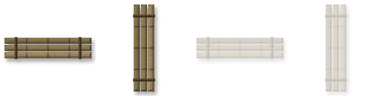
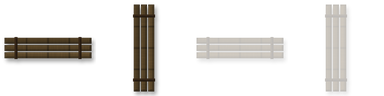
feat(art): bamboo and wood doors stained darker than their walls, wood door boards across

Changed region(s): [[0.0, 0.375, 0.25, 0.625], [0.3438, 0.0312, 0.4062, 0.9688]]

diff --git a/Global/Asset/Structure/make_doors.py b/Global/Asset/Structure/make_doors.py
@@ -46,7 +46,7 @@ def grain(seed):
 
 def leaf_bamboo(half):
     """Three bamboo poles lying along the door, each its own part, lashed at both ends, a node ring every third of a
-    cell; the bamboo wall's weathered colour."""
+    cell; smoked darker than the bamboo wall so the door reads in it."""
     y, x = np.mgrid[0:D, 0:D] + 0.5
     m = rect(C - LENGTH * U / 2, C - half * U, C + LENGTH * U / 2, C + half * U)
     w = 2 * half * U / 3
@@ -58,25 +58,29 @@ def leaf_bamboo(half):
     parts = []
     for k in range(3):
         pole = m * (np.floor(v) == k) * ~seam
-        colour = np.array((150, 130, 88), np.float32) * DARKEN * (round_ * grain(5 + k) * (0.92 + 0.08 * k))[..., None]
+        colour = np.array((92, 72, 42), np.float32) * DARKEN * (round_ * grain(5 + k) * (0.92 + 0.08 * k))[..., None]
         colour[node] *= 0.74
         parts.append((pole, colour))
     for sx in (-0.5, 0.5):
         lash = rect(C + sx * U - 1.6 * SS, C - half * U, C + sx * U + 1.6 * SS, C + half * U)
-        parts.append((lash, np.zeros((D, D, 3), np.float32) + np.array((96, 74, 48), np.float32) * DARKEN))
+        parts.append((lash, np.zeros((D, D, 3), np.float32) + np.array((58, 42, 26), np.float32) * DARKEN))
     return parts
 
 
 def leaf_wood(half):
-    """A plank door: two boards along it, each its own part, two dark iron straps across."""
+    """A plank door: short boards across it, each its own part, stained darker than the wood wall, two iron straps
+    along it."""
     y, x = np.mgrid[0:D, 0:D] + 0.5
     parts = []
-    for k, (y0, y1) in enumerate(((C - half * U, C - 0.4 * SS), (C + 0.4 * SS, C + half * U))):
-        board = rect(C - LENGTH * U / 2, y0, C + LENGTH * U / 2, y1)
-        parts.append((board, np.array((136, 96, 60), np.float32) * DARKEN * (grain(3 + k) * (0.95 + 0.08 * k))[..., None]))
-    for sx in (-0.33, 0.33):
-        strap = rect(C + sx * U - 2.2 * SS, C - half * U, C + sx * U + 2.2 * SS, C + half * U)
-        parts.append((strap, np.zeros((D, D, 3), np.float32) + np.array((70, 64, 58), np.float32)))
+    n = 5
+    step = LENGTH * U / n
+    for k in range(n):
+        x0 = C - LENGTH * U / 2 + k * step
+        board = rect(x0 + 0.35 * SS, C - half * U, x0 + step - 0.35 * SS, C + half * U)
+        parts.append((board, np.array((96, 60, 36), np.float32) * DARKEN * (grain(3 + k) * (0.92 + 0.04 * (k % 3)))[..., None]))
+    for sy in (-0.45, 0.45):
+        strap = rect(C - LENGTH * U / 2, C + sy * half * U - 1.6 * SS, C + LENGTH * U / 2, C + sy * half * U + 1.6 * SS)
+        parts.append((strap, np.zeros((D, D, 3), np.float32) + np.array((58, 54, 50), np.float32)))
     return parts
 
 
